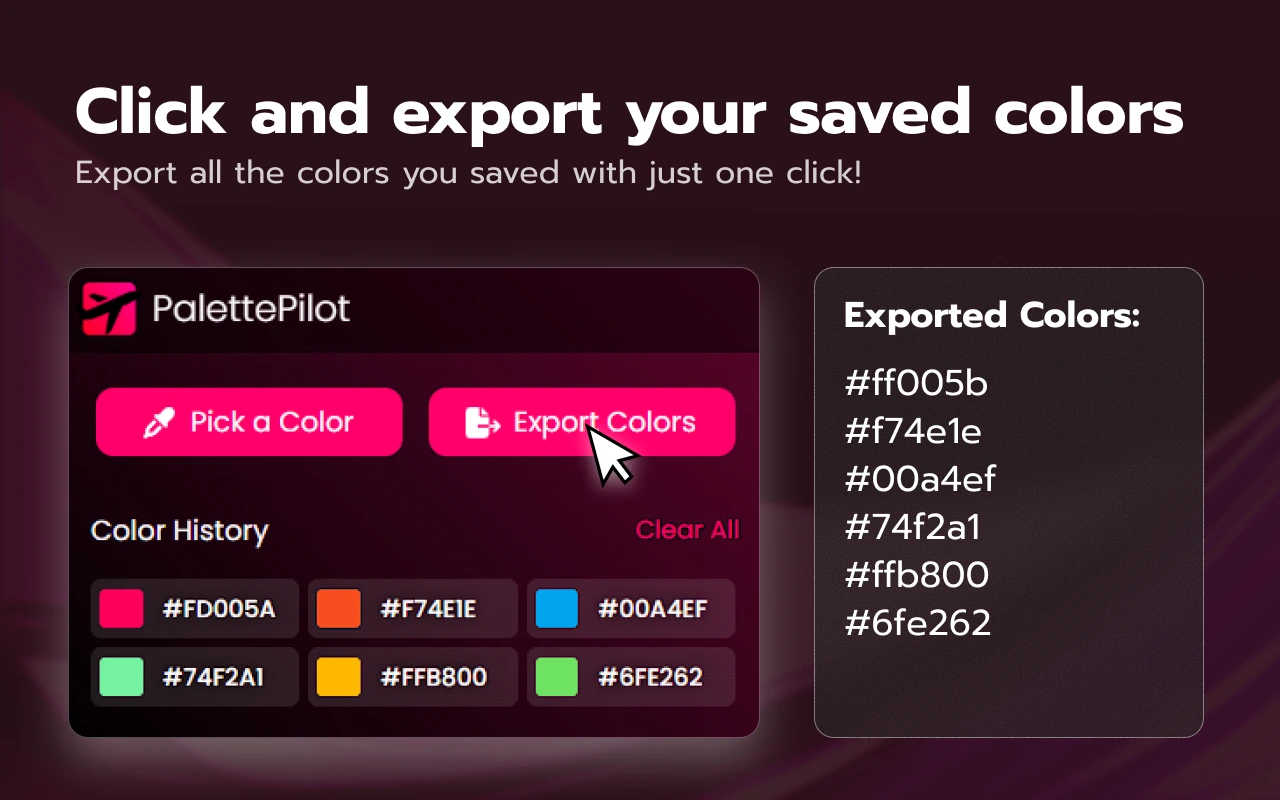
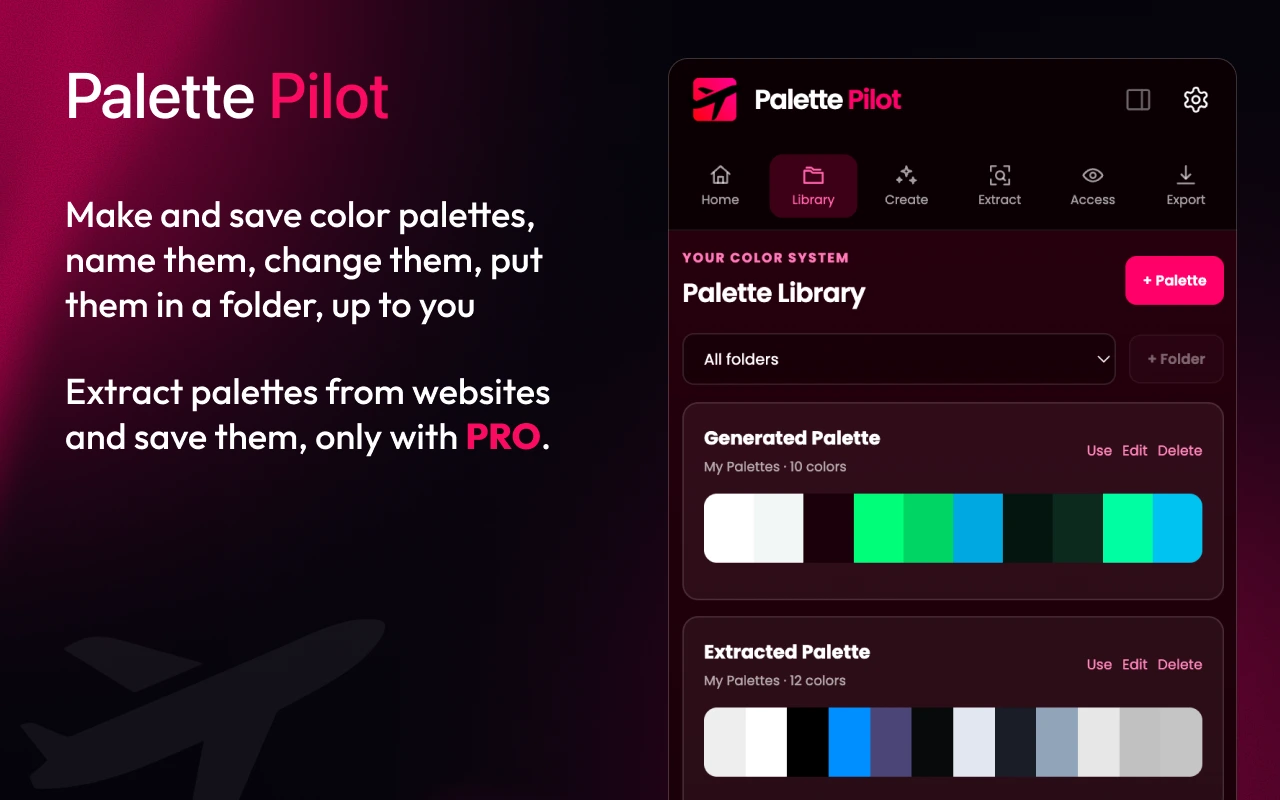
Add third Palette Pilot screenshot
Updates the Palette Pilot project gallery by adding a third screenshot to the HTML page and wiring it to a new image asset. Also refreshes the first two screenshot images to reflect the latest extension UI.

diff --git a/palette-pilot/index.html b/palette-pilot/index.html
@@ -57,6 +57,9 @@
                     <figure class="screenshotCard">
                         <img src="../images/PalettePilotScreen2.webp" alt="Palette Pilot extension screenshot showing another view of the color workflow">
                     </figure>
+                    <figure class="screenshotCard">
+                        <img src="../images/PalettePilotScreen3.webp" alt="Palette Pilot extension screenshot showing the expanded palette workflow">
+                    </figure>
                 </section>
 
                 <div class="extensionDetails">